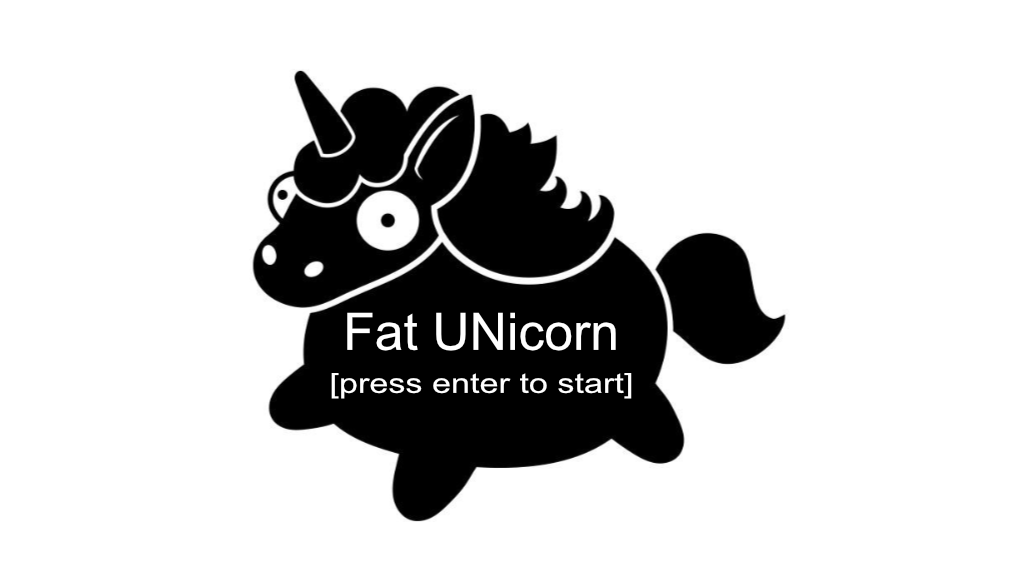
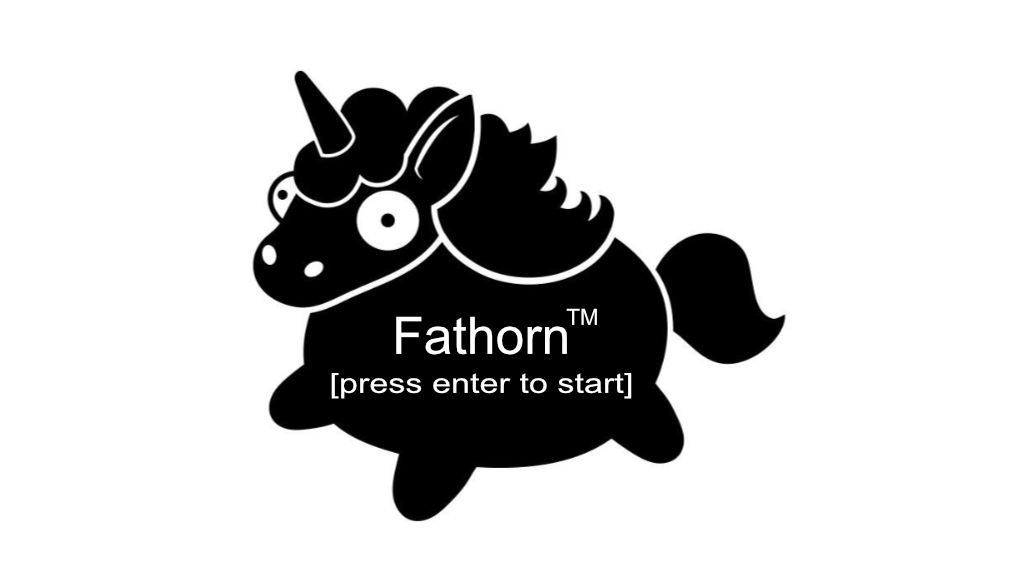
mvp

Changed region(s): [[0.3125, 0.5312, 0.625, 0.625]]

diff --git a/js/src/game.js b/js/src/game.js
@@ -1,5 +1,8 @@
 class Game {
   constructor() {
+    this.speed = 1;
+    this.hp = 5;
+    this.score = 0;
     this.enemies = [];
   }
 
@@ -11,16 +14,23 @@ class Game {
 
   setup() {
     this.player.setup();
-    score = 0;
-    hp = 5;
+    this.score = 0;
+    this.hp = 5;
+    this.speed = 1;
   }
 
   display() {
     this.background.display();
     this.player.display();
 
-    if (frameCount % 120 === 0) {
+    if (frameCount % 60 === 0) {
       this.enemies.push(new Enemy());
+    }
+
+    //increase score over time
+    if ((frameCount % 50) / game.speed ** 2 === 0) {
+      this.score += 1 + Math.floor(this.speed);
+      this.speed += 0.05;
     }
 
     //logic for checking collisions
@@ -31,7 +41,10 @@ class Game {
         this.player.y + this.player.height > enemy.y &&
         this.player.y < enemy.y + enemy.height
       ) {
-        hp--;
+        console.log("boom!");
+
+        //logic to only receive 1 hit
+        this.hp--;
         return true;
       }
     };

diff --git a/js/main.js b/js/main.js
@@ -34,30 +34,25 @@ function draw() {
 
     //movement on key presses
     if (keyIsDown(DOWN_ARROW)) {
-      game.player.y += 5;
+      game.player.y += 8;
     }
     if (keyIsDown(UP_ARROW)) {
-      game.player.y -= 5;
+      game.player.y -= 8;
     }
     if (keyIsDown(LEFT_ARROW)) {
-      game.player.x -= 5;
+      game.player.x -= 8;
     }
     if (keyIsDown(RIGHT_ARROW)) {
-      game.player.x += 5;
-    }
-
-    //increase score over time
-    if (frameCount % 50 === 0) {
-      score++;
+      game.player.x += 8;
     }
 
     //update score and hp
-    document.getElementById("score").innerHTML = score;
-    document.getElementById("hp").innerHTML = hp;
+    document.getElementById("score").innerHTML = game.score;
+    document.getElementById("hp").innerHTML = game.hp;
   }
 
   //check for game over
-  if (hp <= 0) {
+  if (game.hp <= 0) {
     playing = false;
     game.setup();
   }

diff --git a/index.html b/index.html
@@ -3,14 +3,14 @@
   <head>
     <meta charset="UTF-8" />
     <meta name="viewport" content="width=device-width, initial-scale=1.0" />
-    <title>F.Un. Simulator</title>
+    <title>Fathorn</title>
     <link rel="stylesheet" href="./styles/styles.css" />
   </head>
 
   <body>
     <!-- header for score -->
     <header>
-      <h1>Welcome to Fat Unicorn Simulator!</h1>
+      <!-- <h1>Welcome to Fat Unicorn Simulator!</h1> -->
       <h2 id="game">
         Score: <span id="score"></span> Life: <span id="hp"></span>
       </h2>

diff --git a/js/src/enemy.js b/js/src/enemy.js
@@ -1,14 +1,14 @@
 class Enemy {
   constructor() {
-    this.height = 30;
-    this.width = 30;
+    this.height = 80;
+    this.width = 80;
     this.x = width;
     this.y = random(0, height - this.height);
     this.img = loadImage("img/skull.png");
   }
   display() {
     // console.log("disply gets called");
-    this.x--;
-    image(this.img, this.x, this.y, 50, 50);
+    this.x -= 3 * game.speed;
+    image(this.img, this.x, this.y, 80, 80);
   }
 }

diff --git a/js/src/player.js b/js/src/player.js
@@ -8,7 +8,7 @@ class Player {
   setup() {
     this.height = this.img.height;
     this.width = this.img.width;
-    this.x = 80;
+    this.x = 90;
     this.y = (height - this.height) / 2;
   }
 
@@ -28,6 +28,6 @@ class Player {
     }
 
     //display player img
-    image(this.img, this.x, this.y);
+    image(this.img, this.x, this.y, 90, 90);
   }
 }

diff --git a/js/src/background.js b/js/src/background.js
@@ -7,7 +7,7 @@ class Background {
     image(this.img.src, this.img.x, 0);
     image(this.img.src, this.img.x + width, 0);
 
-    this.img.x -= 4;
+    this.img.x -= 4 * game.speed;
 
     if (this.img.x <= -width) {
       this.img.x = 0;

diff --git a/styles/styles.css b/styles/styles.css
@@ -2,7 +2,12 @@
   background-color: black;
   color: white;
   text-align: center;
-  margin: 2%;
+  margin: 3%;
+}
+
+span {
+  /* margin-left: 5vh; */
+  margin-right: 25vh;
 }
 
 h1 {
